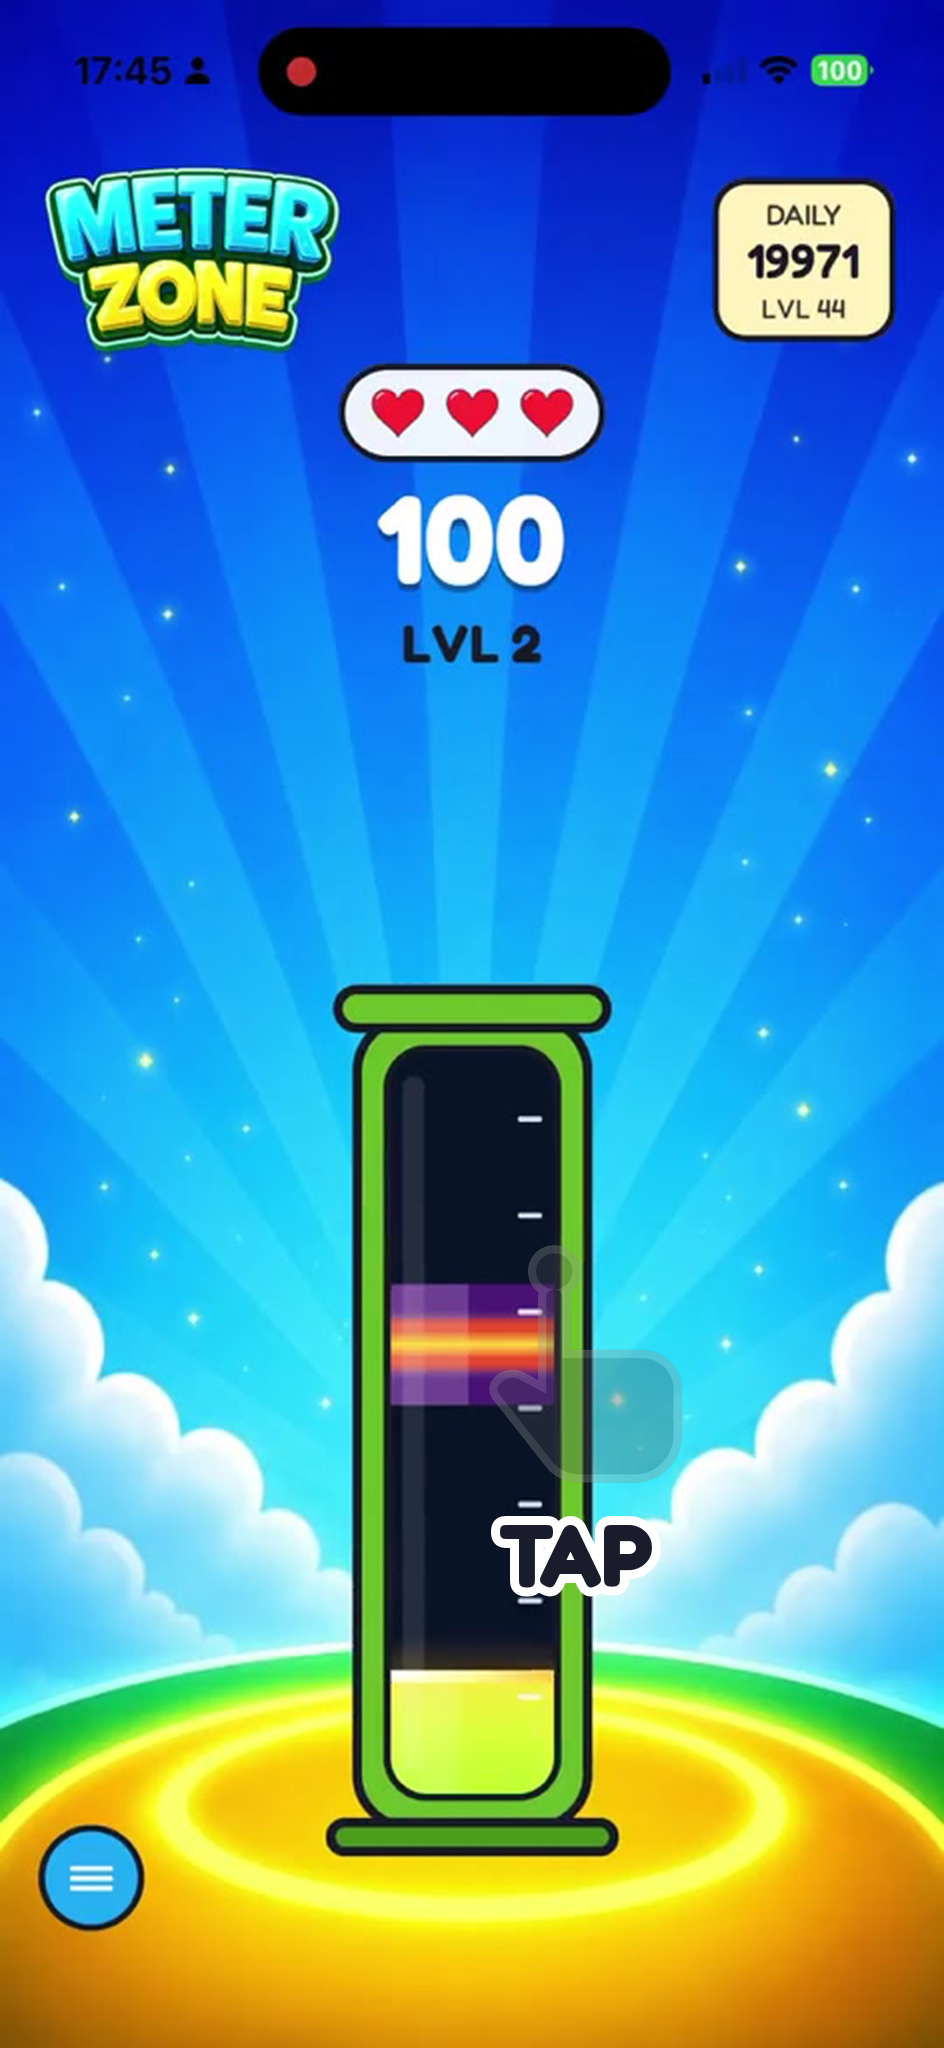
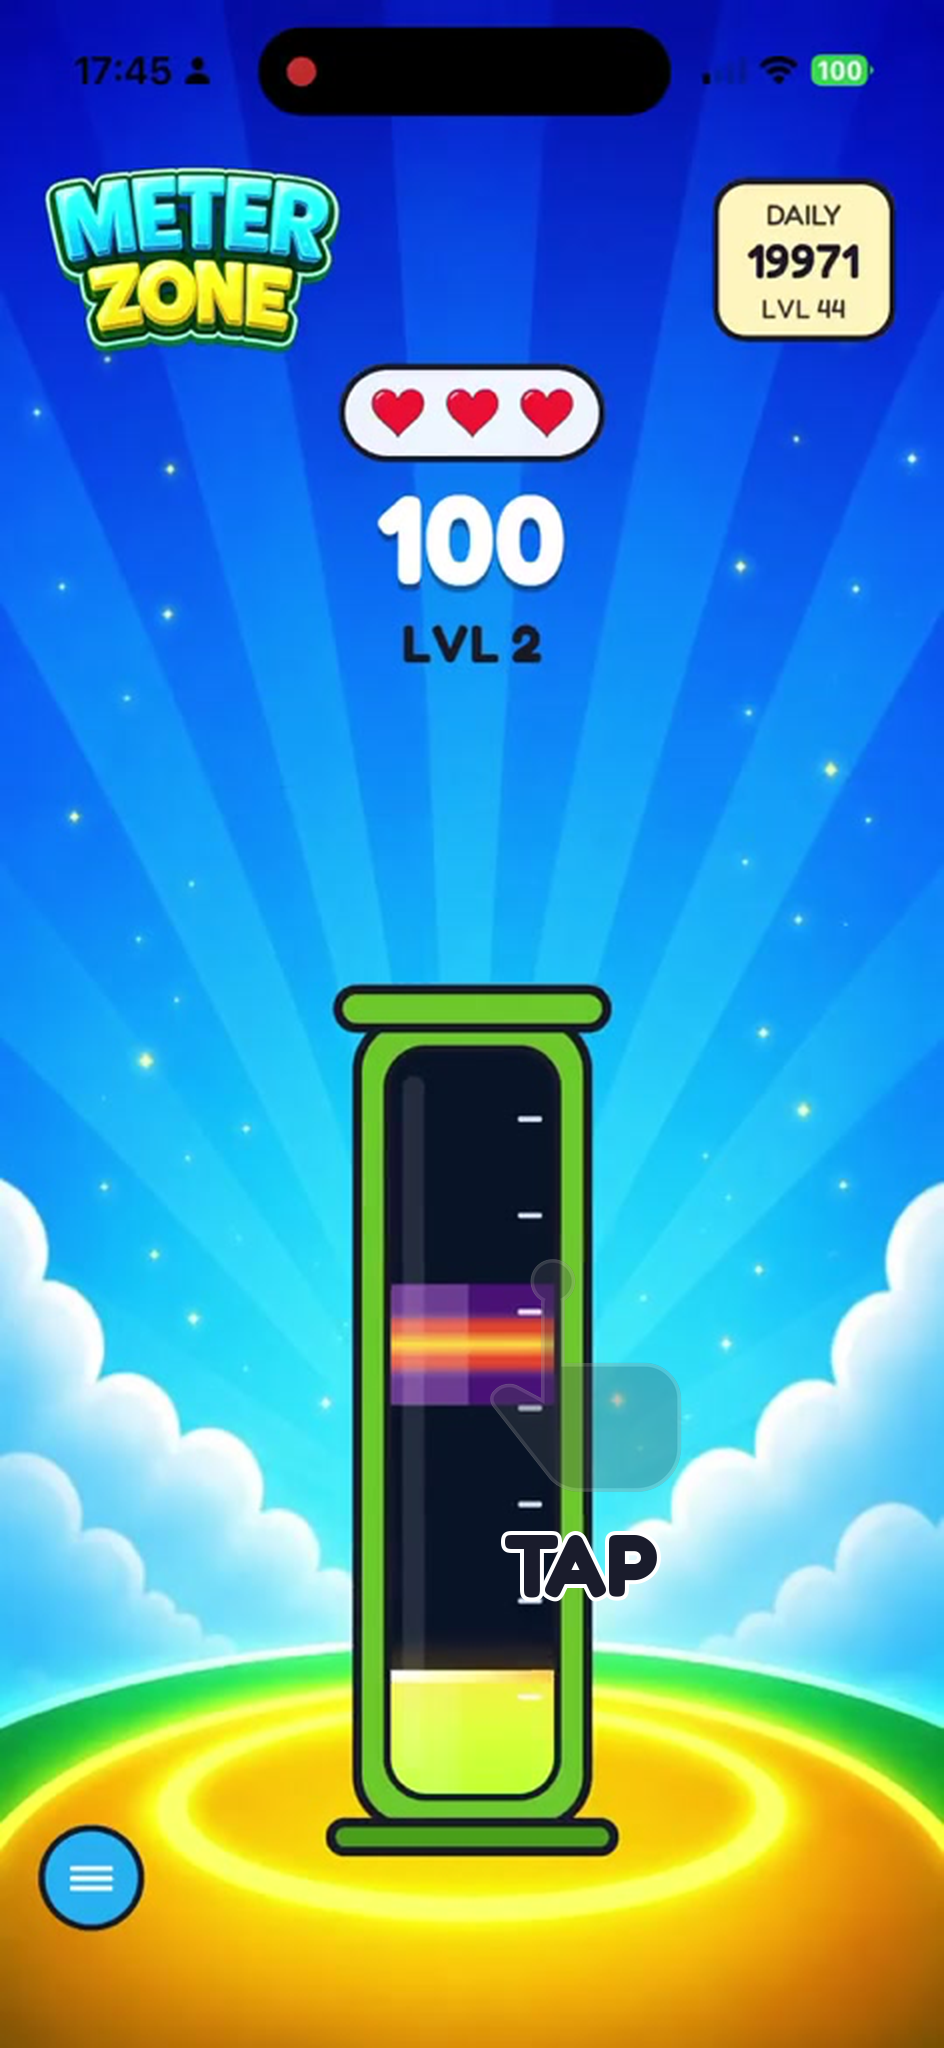
Thin the TAP coach white outlines
Cut the hand sticker stroke and the TAP letter outline so they read
lighter against the meter.

Changed region(s): [[0.5222, 0.5938, 0.7373, 0.7812]]

diff --git a/src/game/TapHint.tsx b/src/game/TapHint.tsx
@@ -85,21 +85,17 @@ export function TapHint({ visible, bottom, shift = 108 }: Props) {
 
 /** Cardinal + diagonal copies so the white outline stays even around the word. */
 const STROKE_OFFSETS = [
-  [-3, 0],
-  [3, 0],
-  [0, -3],
-  [0, 3],
-  [-3, -3],
-  [3, -3],
-  [-3, 3],
-  [3, 3],
-  [-4, 0],
-  [4, 0],
-  [0, -4],
-  [0, 4],
+  [-2, 0],
+  [2, 0],
+  [0, -2],
+  [0, 2],
+  [-2, -2],
+  [2, -2],
+  [-2, 2],
+  [2, 2],
 ] as const;
 
-/** Black fill with a thick white outline — same sticker treatment as the hand. */
+/** Black fill with a thin white outline — same sticker treatment as the hand. */
 function TapLabel() {
   return (
     <View style={styles.labelWrap}>
